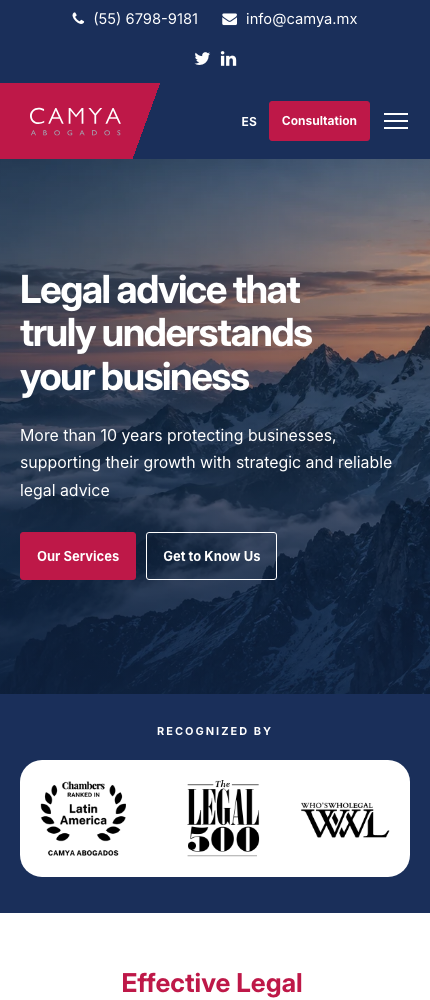
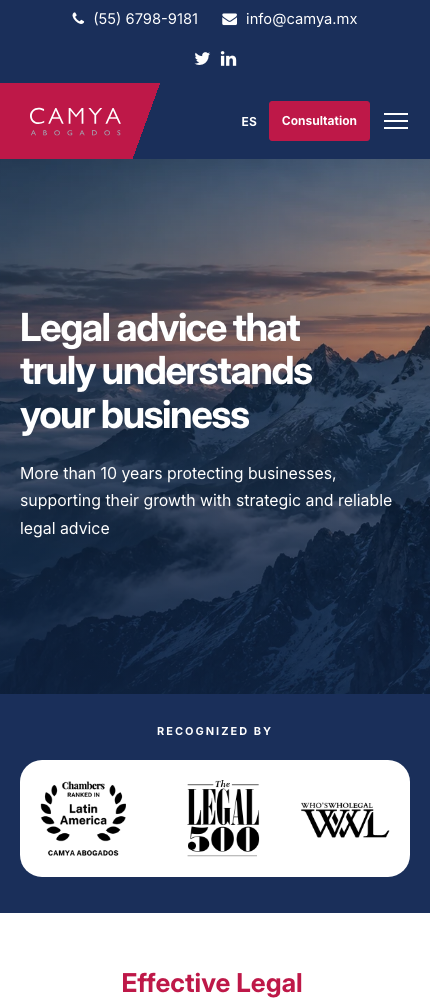
Remove homepage hero buttons in both languages

Changed region(s): [[0.0302, 0.279, 0.907, 0.589]]

diff --git a/tests/home-refresh.spec.js b/tests/home-refresh.spec.js
@@ -20,8 +20,9 @@ for (const width of [375, 390, 430, 768, 1440]) {
       await expect(page.locator('#home-navigation a')).toHaveText(copy.labels);
       await expect(page.locator('.camya-language')).toHaveAttribute('href', copy.language);
       await expect(page.locator('.camya-consult')).toHaveAttribute('href', copy.contact);
-      await expect(page.locator('.camya-hero-buttons a').nth(0)).toHaveAttribute('href', copy.practice);
-      await expect(page.locator('.camya-hero-buttons a').nth(1)).toHaveAttribute('href', copy.firm);
+      await expect(page.locator('.camya-hero a')).toHaveCount(0);
+      await expect(page.locator('#home-navigation a').nth(1)).toHaveAttribute('href', copy.practice);
+      await expect(page.locator('#home-navigation a').nth(2)).toHaveAttribute('href', copy.firm);
       await expect(page.locator('#home-navigation a').nth(3)).toHaveAttribute('href', copy.practice + '#content');
       const sectors = await request.get(copy.practice);
       expect(await sectors.text()).toContain('id="content"');
@@ -77,12 +78,6 @@ for (const width of [375, 390, 430, 768, 1440]) {
       await expect(page.locator(copy.anchor)).toBeInViewport();
       await expect(page.locator('.local-contact-form')).toBeVisible();
 
-      await page.goto(copy.route);
-      await page.locator('.camya-hero-buttons a').first().click();
-      await expect(page).toHaveURL(new URL(copy.practice, baseURL).href);
-      await page.goto(copy.route);
-      await page.locator('.camya-hero-buttons a').last().click();
-      await expect(page).toHaveURL(new URL(copy.firm, baseURL).href);
       await page.goto(copy.route);
       await page.locator('.camya-language').click();
       await expect(page).toHaveURL(new URL(copy.language, baseURL).href);

diff --git a/dist/home.css b/dist/home.css
@@ -99,9 +99,6 @@ body.camya-home-refresh {
   text-wrap: balance;
 }
 .camya-hero-description {max-width: 570px; margin: 28px 0 0; font-size: 18px; line-height: 1.75; font-weight: 400}
-.camya-hero-buttons {display: flex; flex-wrap: wrap; gap: 14px; margin-top: 32px}
-.camya-home-refresh .camya-button-outline {background: transparent; border-color: #fff}
-.camya-home-refresh .camya-button-outline:hover {background: #ffffff1f; border-color: #fff}
 
 .camya-recognition {padding: 38px 0 48px; background: var(--camya-blue)}
 .camya-recognition h2 {margin: 0 0 24px; text-align: center; color: #fff; font-size: 13px; font-weight: 700; line-height: 1.4; letter-spacing: 0.18em}
@@ -174,8 +171,6 @@ body.camya-home-refresh {
   .camya-hero-content {padding-block: 58px 64px}
   .camya-hero h1 {font-size: clamp(34px, 9vw, 40px); line-height: 1.12; letter-spacing: -0.04em}
   .camya-hero-description {font-size: 16px; line-height: 1.7; margin-top: 24px}
-  .camya-hero-buttons {gap: 10px; margin-top: 28px}
-  .camya-home-refresh .camya-hero-buttons .camya-button {font-size: 13px; padding: 13px 16px; min-height: 48px}
   .camya-recognition {padding-block: 30px 36px}
   .camya-recognition h2 {font-size: 11px; margin-bottom: 20px}
   .camya-recognition-capsule {padding: 16px 18px; gap: 12px; border-radius: 22px}

diff --git a/dist/en/home/index.html b/dist/en/home/index.html
@@ -119,10 +119,6 @@
 <div class="camya-home-container camya-hero-content">
 <h1 id="home-title">Legal advice that truly understands your business</h1>
 <p class="camya-hero-description">More than 10 years protecting businesses, supporting their growth with strategic and reliable legal advice</p>
-<div class="camya-hero-buttons">
-<a class="camya-button" href="/en/pratic-areas/">Our Services</a>
-<a class="camya-button camya-button-outline" href="/en/the-firm/">Get to Know Us</a>
-</div>
 </div>
 </section><section aria-labelledby="recognition-title" class="camya-recognition">
 <div class="camya-home-container">

diff --git a/dist/en/index.html b/dist/en/index.html
@@ -119,10 +119,6 @@
 <div class="camya-home-container camya-hero-content">
 <h1 id="home-title">Legal advice that truly understands your business</h1>
 <p class="camya-hero-description">More than 10 years protecting businesses, supporting their growth with strategic and reliable legal advice</p>
-<div class="camya-hero-buttons">
-<a class="camya-button" href="/en/pratic-areas/">Our Services</a>
-<a class="camya-button camya-button-outline" href="/en/the-firm/">Get to Know Us</a>
-</div>
 </div>
 </section><section aria-labelledby="recognition-title" class="camya-recognition">
 <div class="camya-home-container">

diff --git a/dist/index.html b/dist/index.html
@@ -119,10 +119,6 @@
 <div class="camya-home-container camya-hero-content">
 <h1 id="home-title">Asesoría Legal que sí entiende tu negocio</h1>
 <p class="camya-hero-description">Más de 10 años protegiendo a empresas, acompañando su crecimiento con asesoría estratégica y confiable</p>
-<div class="camya-hero-buttons">
-<a class="camya-button" href="/areas-de-practica/">Nuestros Servicios</a>
-<a class="camya-button camya-button-outline" href="/la-firma/">Conócenos</a>
-</div>
 </div>
 </section><section aria-labelledby="recognition-title" class="camya-recognition">
 <div class="camya-home-container">

diff --git a/scripts/refresh-home.py b/scripts/refresh-home.py
@@ -16,7 +16,7 @@ COPY = {
         'menu': 'Abrir menú', 'navigation': 'Navegación principal',
         'title': 'Asesoría Legal que sí entiende tu negocio',
         'subtitle': 'Más de 10 años protegiendo a empresas, acompañando su crecimiento con asesoría estratégica y confiable',
-        'services': 'Nuestros Servicios', 'about': 'Conócenos', 'recognition': 'RECONOCIDOS POR',
+        'recognition': 'RECONOCIDOS POR',
     },
     'en': {
         'home': '/en/home/', 'practice': '/en/pratic-areas/', 'firm': '/en/the-firm/',
@@ -27,7 +27,7 @@ COPY = {
         'menu': 'Open menu', 'navigation': 'Main navigation',
         'title': 'Legal advice that truly understands your business',
         'subtitle': 'More than 10 years protecting businesses, supporting their growth with strategic and reliable legal advice',
-        'services': 'Our Services', 'about': 'Get to Know Us', 'recognition': 'RECOGNIZED BY',
+        'recognition': 'RECOGNIZED BY',
     },
 }
 
@@ -70,10 +70,6 @@ for route in ['/', '/en/', '/en/home/']:
       <div class="camya-home-container camya-hero-content">
         <h1 id="home-title">{c['title']}</h1>
         <p class="camya-hero-description">{c['subtitle']}</p>
-        <div class="camya-hero-buttons">
-          <a class="camya-button" href="{c['practice']}">{c['services']}</a>
-          <a class="camya-button camya-button-outline" href="{c['firm']}">{c['about']}</a>
-        </div>
       </div>
     </section>''').section
     recognition = fragment(f'''

diff --git a/verification/HOME_REFRESH_FR.md b/verification/HOME_REFRESH_FR.md
@@ -2,7 +2,7 @@
 
 Cette adaptation part du clone et de sa correction mobile validés (`3d4412f`). Seuls `/`, `/en/` et `/en/home/` changent. Les 76 autres URL conservent leurs fichiers HTML. Les anciens paragraphes et titres du hero sont déplacés sous les reconnaissances sans réécriture ; les services, profils, biographies, actualités, contact et mentions restent disponibles.
 
-Le header utilise le dégradé demandé et le logo CAMYA original `wp-content/uploads/2026/10/logoblanco_nvo.svg`. Les textes espagnols du hero sont ceux du brief, avec traduction anglaise fidèle. Les boutons renvoient aux pages existantes d'áreas de práctica et de La Firma.
+Le header utilise le dégradé demandé et le logo CAMYA original `wp-content/uploads/2026/10/logoblanco_nvo.svg`. Les textes espagnols du hero sont ceux du brief, avec traduction anglaise fidèle. À la demande du client, les boutons « Nuestros Servicios » et « Conócenos », ainsi que leurs équivalents anglais, ont été retirés du hero. Les pages d'áreas de práctica et de La Firma restent accessibles depuis le menu.
 
 | Menu espagnol | Destination |
 | --- | --- |
